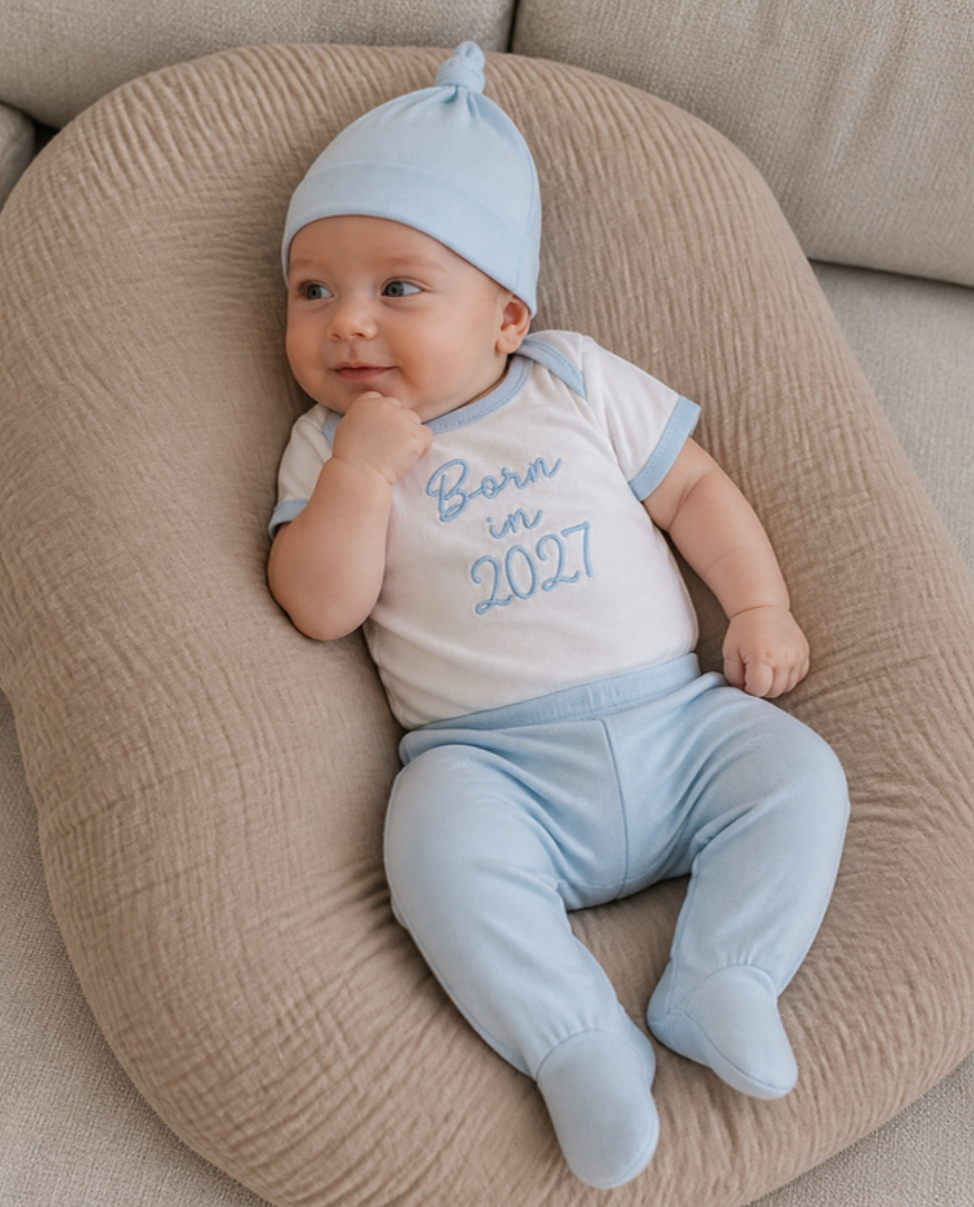
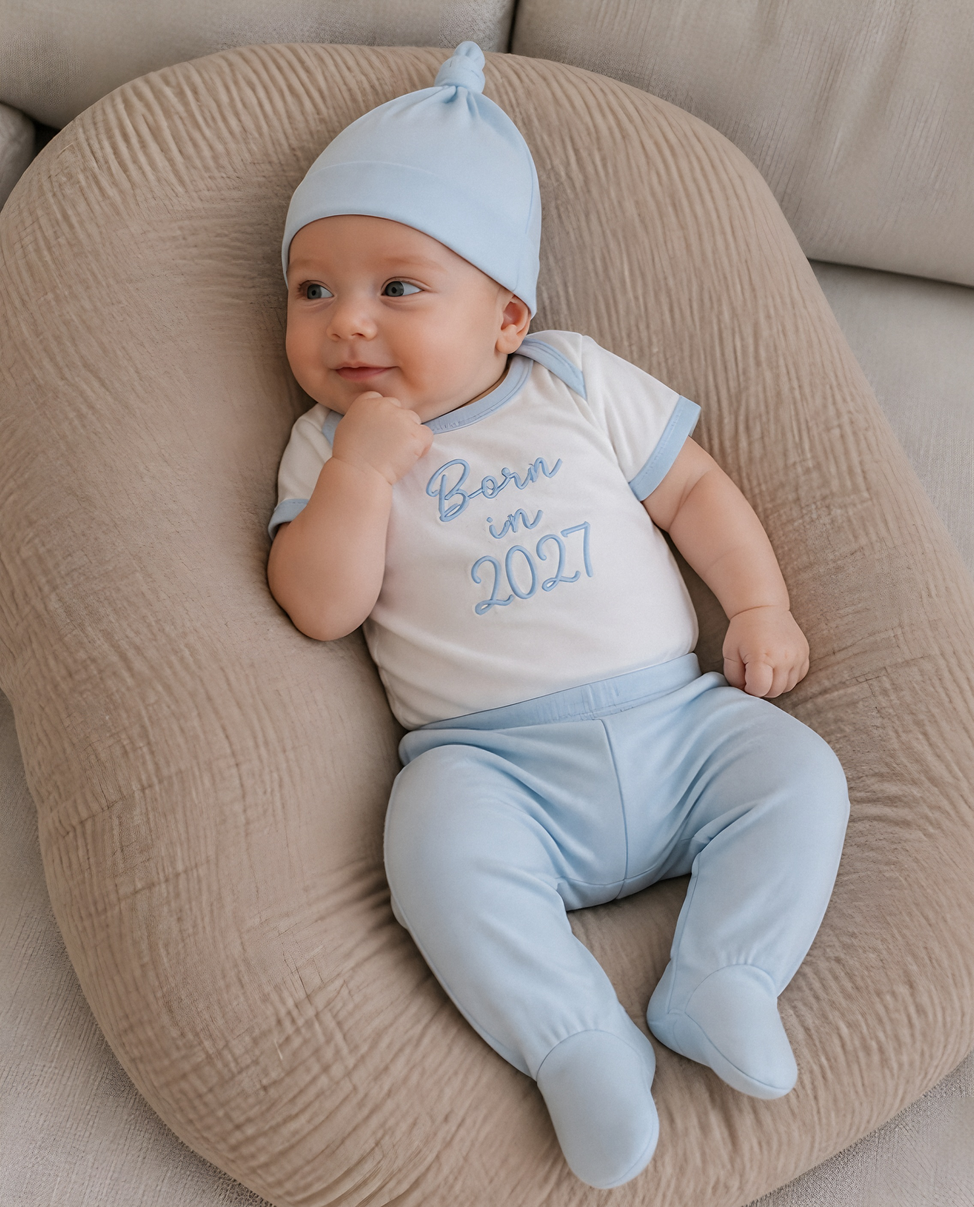
Coming soon komplett: 31 Baby-Fotos Zuhause-Stil und 31 Set-Flatlays mit sunnozy-Etikett, Übersichten und READMEs
Claude-Session: https://claude.ai/code/session_01Mcsz2CcqhytaxPLftYR6o2

diff --git a/sunnozy-content/posts/baby-photos/README.md b/sunnozy-content/posts/baby-photos/README.md
@@ -41,3 +41,17 @@ Bei `baby_echt_leggings_ripp_pastell.jpg` hatte die KI einen weissen, logoähnli
 - **Schrift auf den Teilen:** Die KI schreibt Text nicht immer sauber. Beim Wal-Kapuzentuch (`baby_wal_blau_3.jpg`) ist «Just Swimming» unleserlich, beim Rosa-Kapuzentuch (`baby_rosa_3.jpg`) ist «Princess» nur angedeutet. Diese beiden lieber nicht als Produktbild verwenden, oder neu erzeugen.
 - **Little and Loved, Look 3:** Das Baby trägt zur Jacke und zum T-Shirt eine cremefarbene Hose. Die Hose ist im Set enthalten, aber nicht in der Referenz; Farbe prüfen.
 - Alle Babys sind wach, auf dem Rücken oder im Arm, ohne Decke über dem Körper (Safe Sleep).
+
+## Zuhause-Stil Coming soon (`baby_zuhause_cs_*`, 03.11.2026)
+
+31 Fotos, je eins pro Coming-soon-Set (alle Ordner in `../coming-soon/` mit Referenzfoto). Stil nach den 5 Beispielfotos der Nutzerin (nur in Worten beschrieben, keine fremden Fotos hochgeladen): warmes Kinderzimmer mit Tageslicht, Naturtöne, Fotografen-Look. Die Babys sind echt wirkend und hübsch (rundes Gesicht, rosige Wangen, klare Augen), keine Puppen. Übersicht: `uebersicht_zuhause_coming_soon.jpg`.
+
+| Szene | Beschreibung |
+|---|---|
+| Korb | Baby wach im Seegras-Mosekorb, Strickdecke unter den Beinen, Pampas und Papierkugel am Rand |
+| Kissen | Baby wach auf taupefarbenem Musselin-Stillkissen auf dem Sofa |
+| Fell | Baby wach auf cremefarbenem Lammfell mit Holz-Beissring |
+
+**Sicherer Schlaf:** Alle Babys sind wach mit offenen Augen, nichts liegt auf dem Baby, kein Nuggi im Mund, keine Plüschtiere.
+**KI-Bilder:** Prints, Schriften und Farben mit dem echten Set vergleichen. Beim Posten «Mit KI erstellt» einschalten.
+Format 2272 × 2816 (aus 1136 × 1408 hochgerechnet; die bessere Real-ESRGAN-Version ersetzt die schnelle Version nach und nach).

diff --git a/sunnozy-content/posts/product-photos-present/README.md b/sunnozy-content/posts/product-photos-present/README.md
@@ -1,0 +1,14 @@
+# Produkt-Präsentation: Set-Flatlays mit sunnozy-Etikett
+
+31 Flatlays, je eins pro Coming-soon-Set (03.11.2026). Stil nach den 3 Beispielfotos der Nutzerin (nur in Worten beschrieben, keine fremden Fotos oder Marken übernommen). Übersicht: `uebersicht_coming_soon.jpg`.
+
+| Szene | Beschreibung |
+|---|---|
+| Korb | Teile gefaltet und aufgefächert auf Strickdecke im Seegras-Tablett, weisse und rosa Tulpen, Picknickkorb-Ecke |
+| Pampas | flach auf weissem Leinen, Pampasgras oben rechts, Holz-Beissring |
+| Sonne | auf warmem Off-White, schräges Abendlicht mit Blatt-Schatten, weisse Blumen unscharf vorne |
+
+- **Ganzes Set:** Jedes Flatlay zeigt alle Teile des Sets (Anzahl aus dem Coming-soon-README). Bei Hosen-, Mützen- und Strampler-Sets sind die Teile einzeln beschrieben, damit keine fremden Teile dazukommen.
+- **Etikett:** Im Nacken ist das sunnozy-Etikett aufgedruckt (Logo, 0-3M, drei Herzen, 100%COTTON, MADE IN CHINA). Vorlage: `etikett_vorlage.jpg`, aus dem echten Logo erstellt nach dem Foto des echten Etiketts.
+- **KI-Bilder:** Teile-Anzahl, Prints und Farben mit dem echten Set vergleichen (Pflicht vor Shop, Galaxus und Amazon). Kleine Schrift auf dem Etikett kann leicht verzogen sein.
+- Format 2272 × 2816 (4:5), Dateien `praes_cs_<set>.jpg`.
